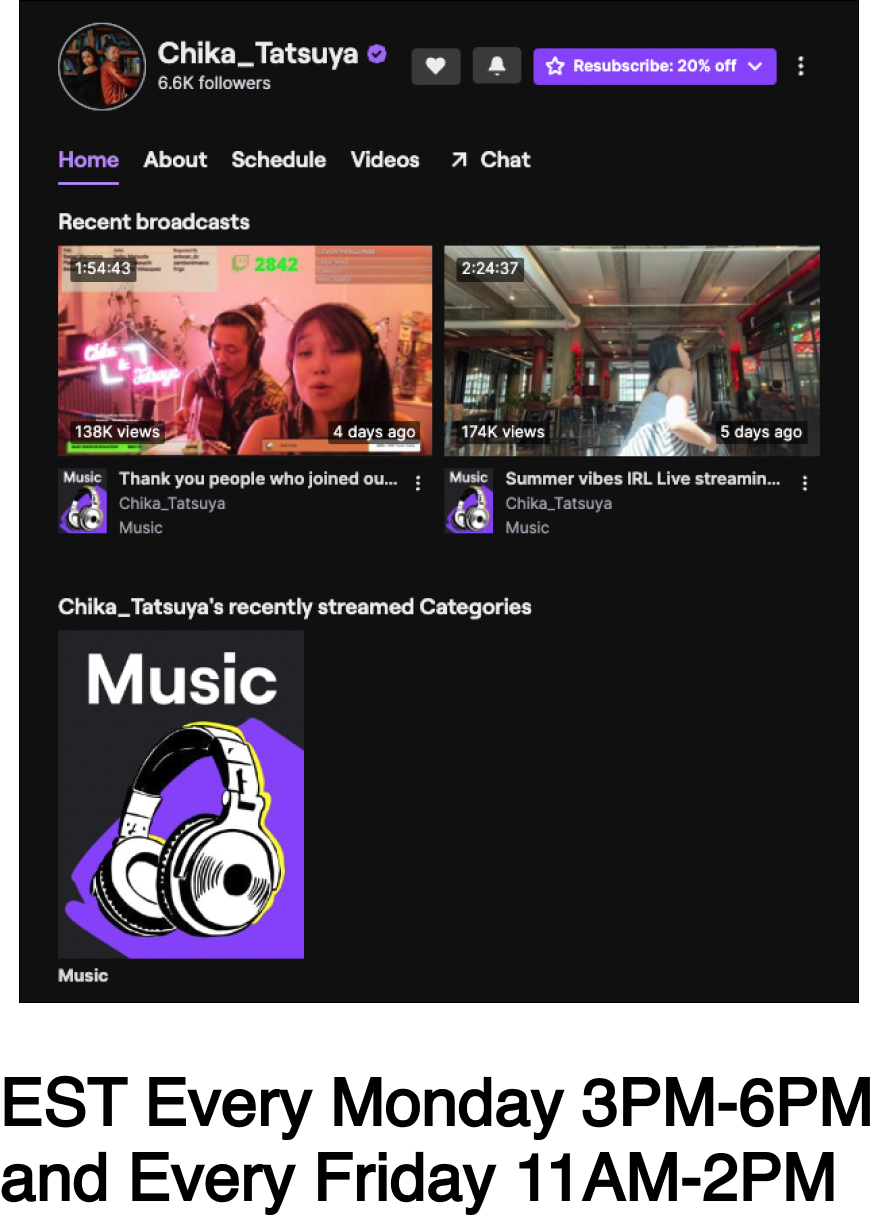
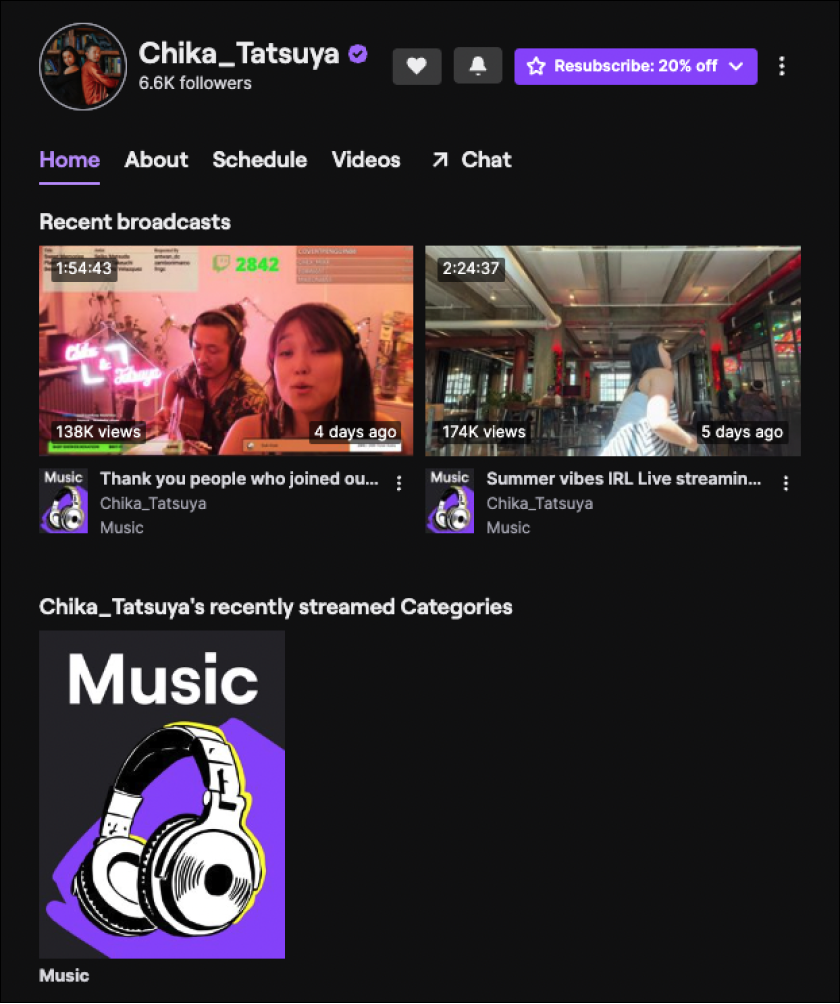
add telop section

diff --git a/components/telop.tsx b/components/telop.tsx
@@ -1,0 +1,29 @@
+import React from "react";
+
+const Telop: React.FC = () => {
+  return (
+    <section className="bg-white min-h-screen flex flex-col justify-center gap-16 med:gap-32">
+      <div className="flex-1"></div>
+      <div className="flex flex-col justify-center items-center">
+        <h3 className="text-xl mb-10 font-bold text-center">
+          <span className="whitespace-nowrap">trusted by</span>{" "}
+          <span className="whitespace-nowrap">
+            some of the apps you use daily
+          </span>
+        </h3>
+        <div>logos</div>
+      </div>
+      <div className="flex flex-col justify-center items-center">
+        <div className="container mx-auto lg:max-w-[70%] lg:px-10">
+          <h3 className="text-3xl lg:text-4xl tracking-tight text-center px-10 !leading-[3.5rem]">
+            We believe in good communication and a fully transparent process.
+          </h3>
+        </div>
+      </div>
+      <div>Testimonials</div>
+      <div className="flex-1 bg-black"></div>
+    </section>
+  );
+};
+
+export default Telop;

diff --git a/components/work.tsx b/components/work.tsx
@@ -14,6 +14,8 @@ export const WorkContainer: React.FC<Props> = ({ children }) => (
 export const WorkBackground: React.FC = () => (
   <div className="grid grid-cols-1 lg:grid-cols-2 w-full min-h-screen top-0 sticky">
     <div className="bg-black h-[30vh] lg:h-auto"></div>
+    {/* <div className="bg-white h-[30vh] lg:h-auto"></div> */}
+    {/* <div className="bg-black h-[70vh] lg:min-h-screen"></div> */}
     <div className="bg-white h-[70vh] lg:min-h-screen"></div>
   </div>
 );

diff --git a/pages/index.tsx b/pages/index.tsx
@@ -5,6 +5,7 @@ import Masthead from "../components/masthead";
 import About from "../components/about";
 import Appearance from "../components/appearance";
 import Works from "../components/works";
+import Telop from "../components/telop";
 
 const Home: NextPage = () => {
   return (
@@ -19,6 +20,7 @@ const Home: NextPage = () => {
       <About />
       <Appearance />
       <Works />
+      <Telop />
       <About />
     </div>
   );

diff --git a/components/works.tsx b/components/works.tsx
@@ -35,6 +35,9 @@ const Works = () => (
                 height={1200}
                 alt="twitch"
               />
+              <div className="text-gray-500 text-2xl md:text-3xl font-semibold tracking-tight">
+                EST Every Monday 3PM-6PM and Every Friday 11AM-２PM
+              </div>
             </WorkRight>
           </WorkContainer>
         )}
